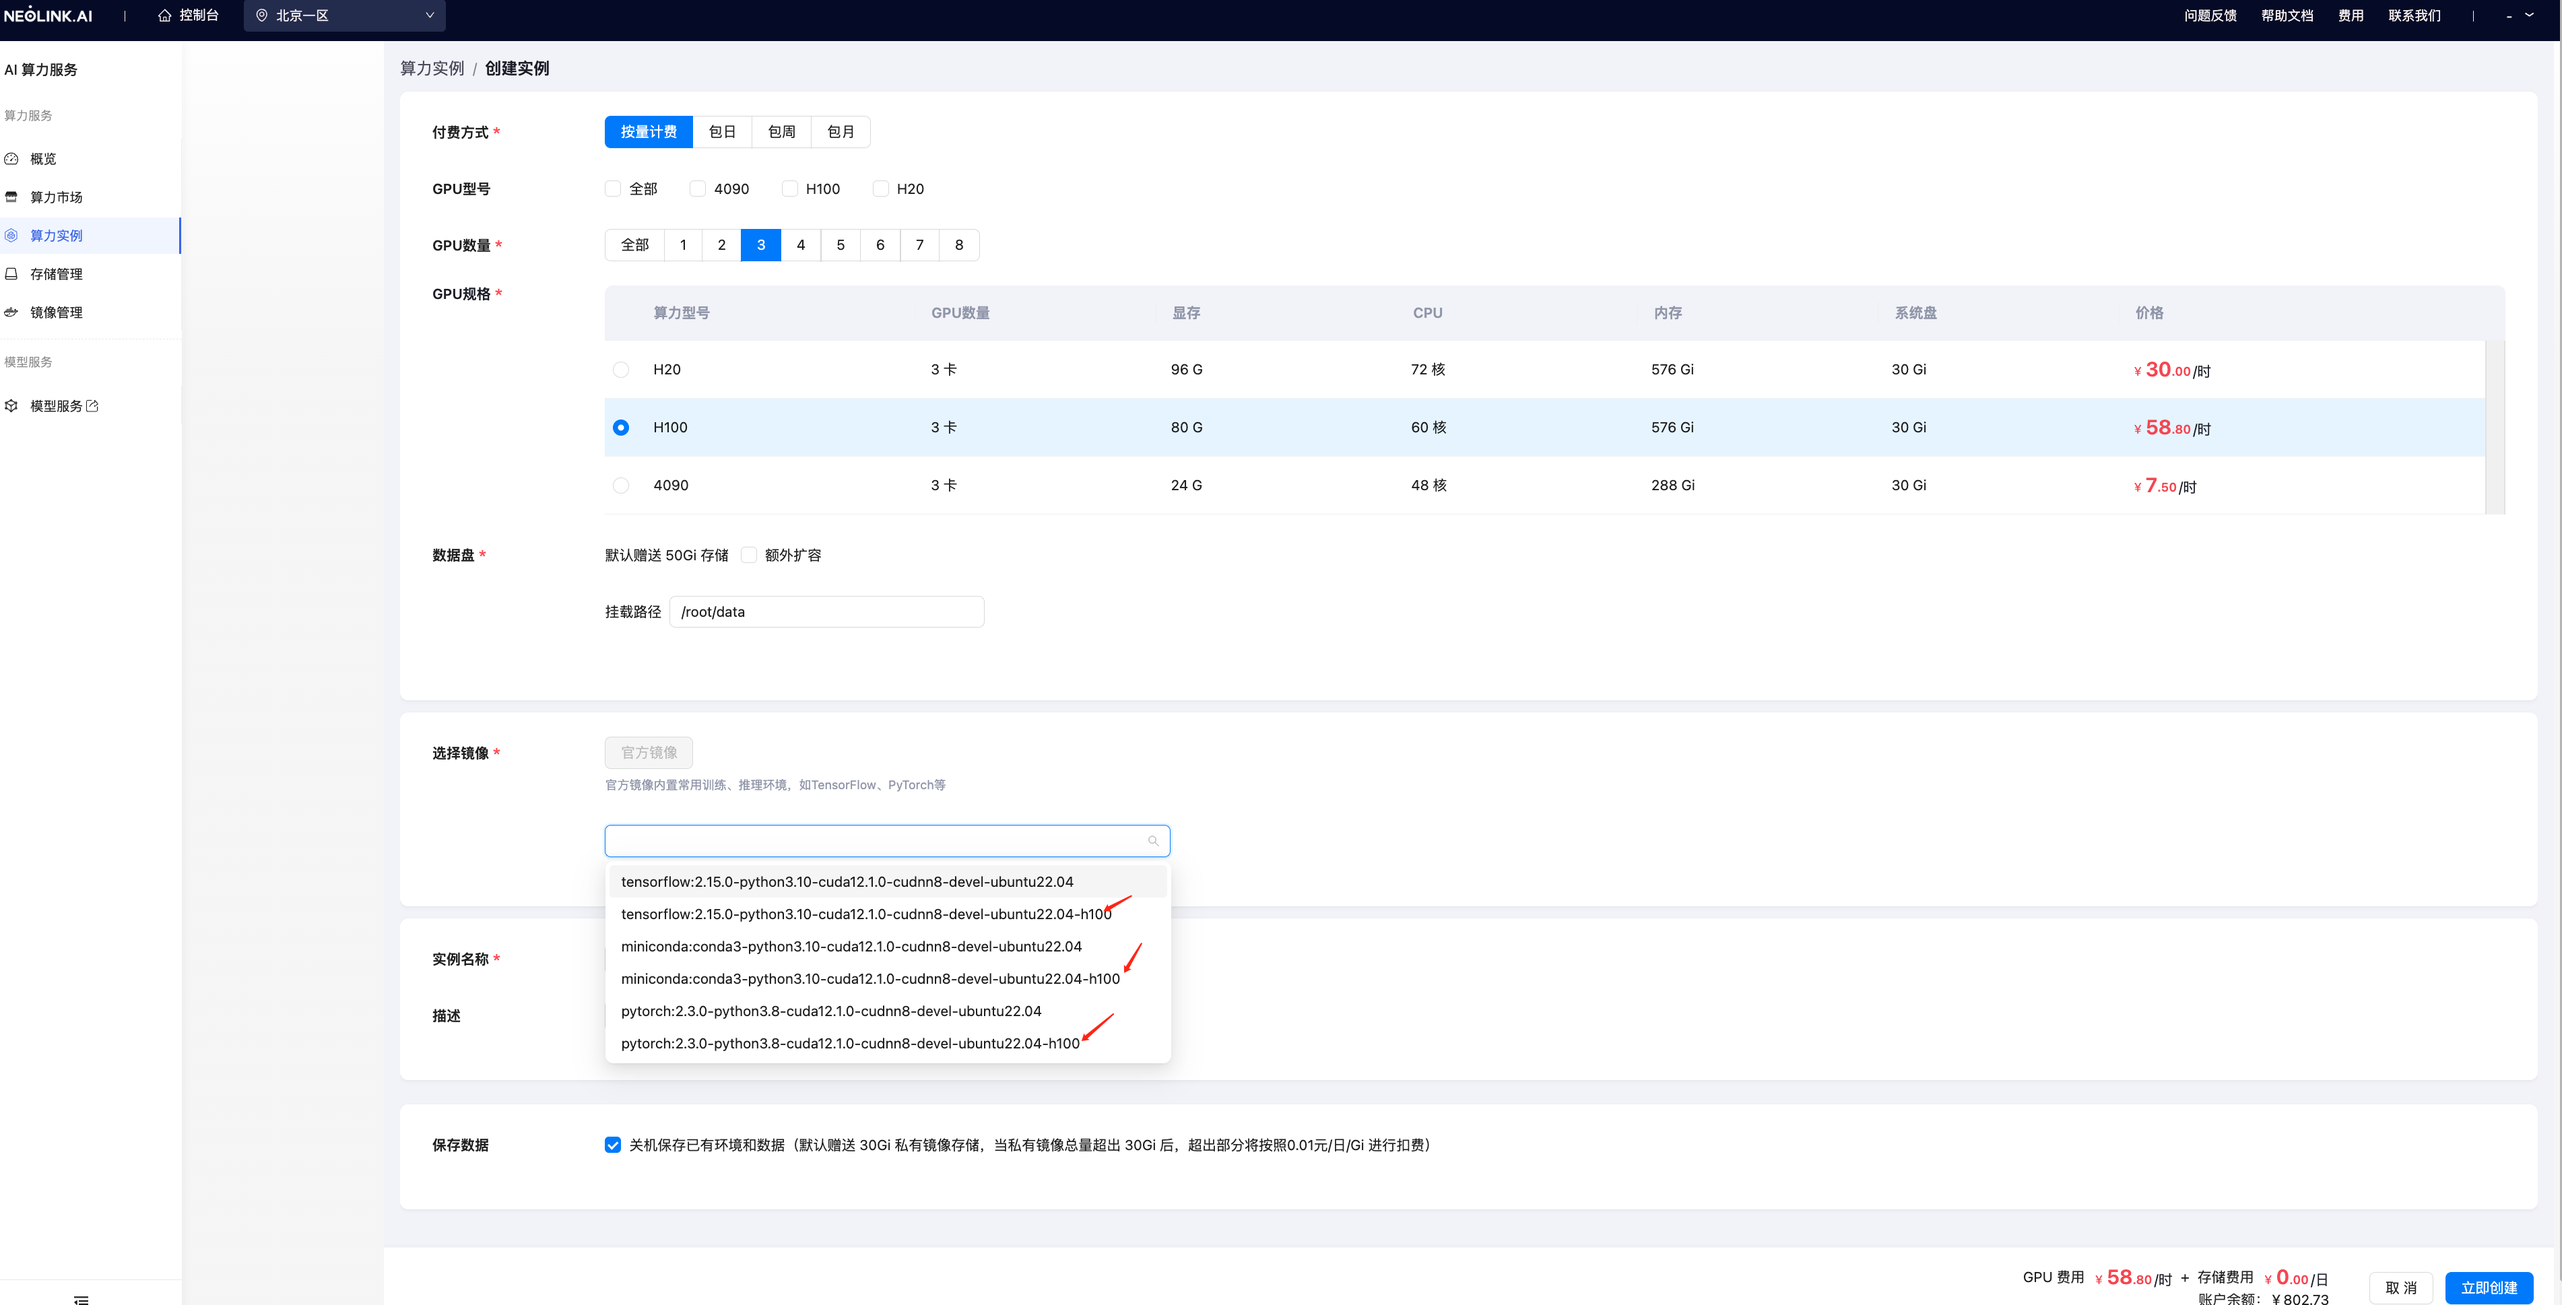
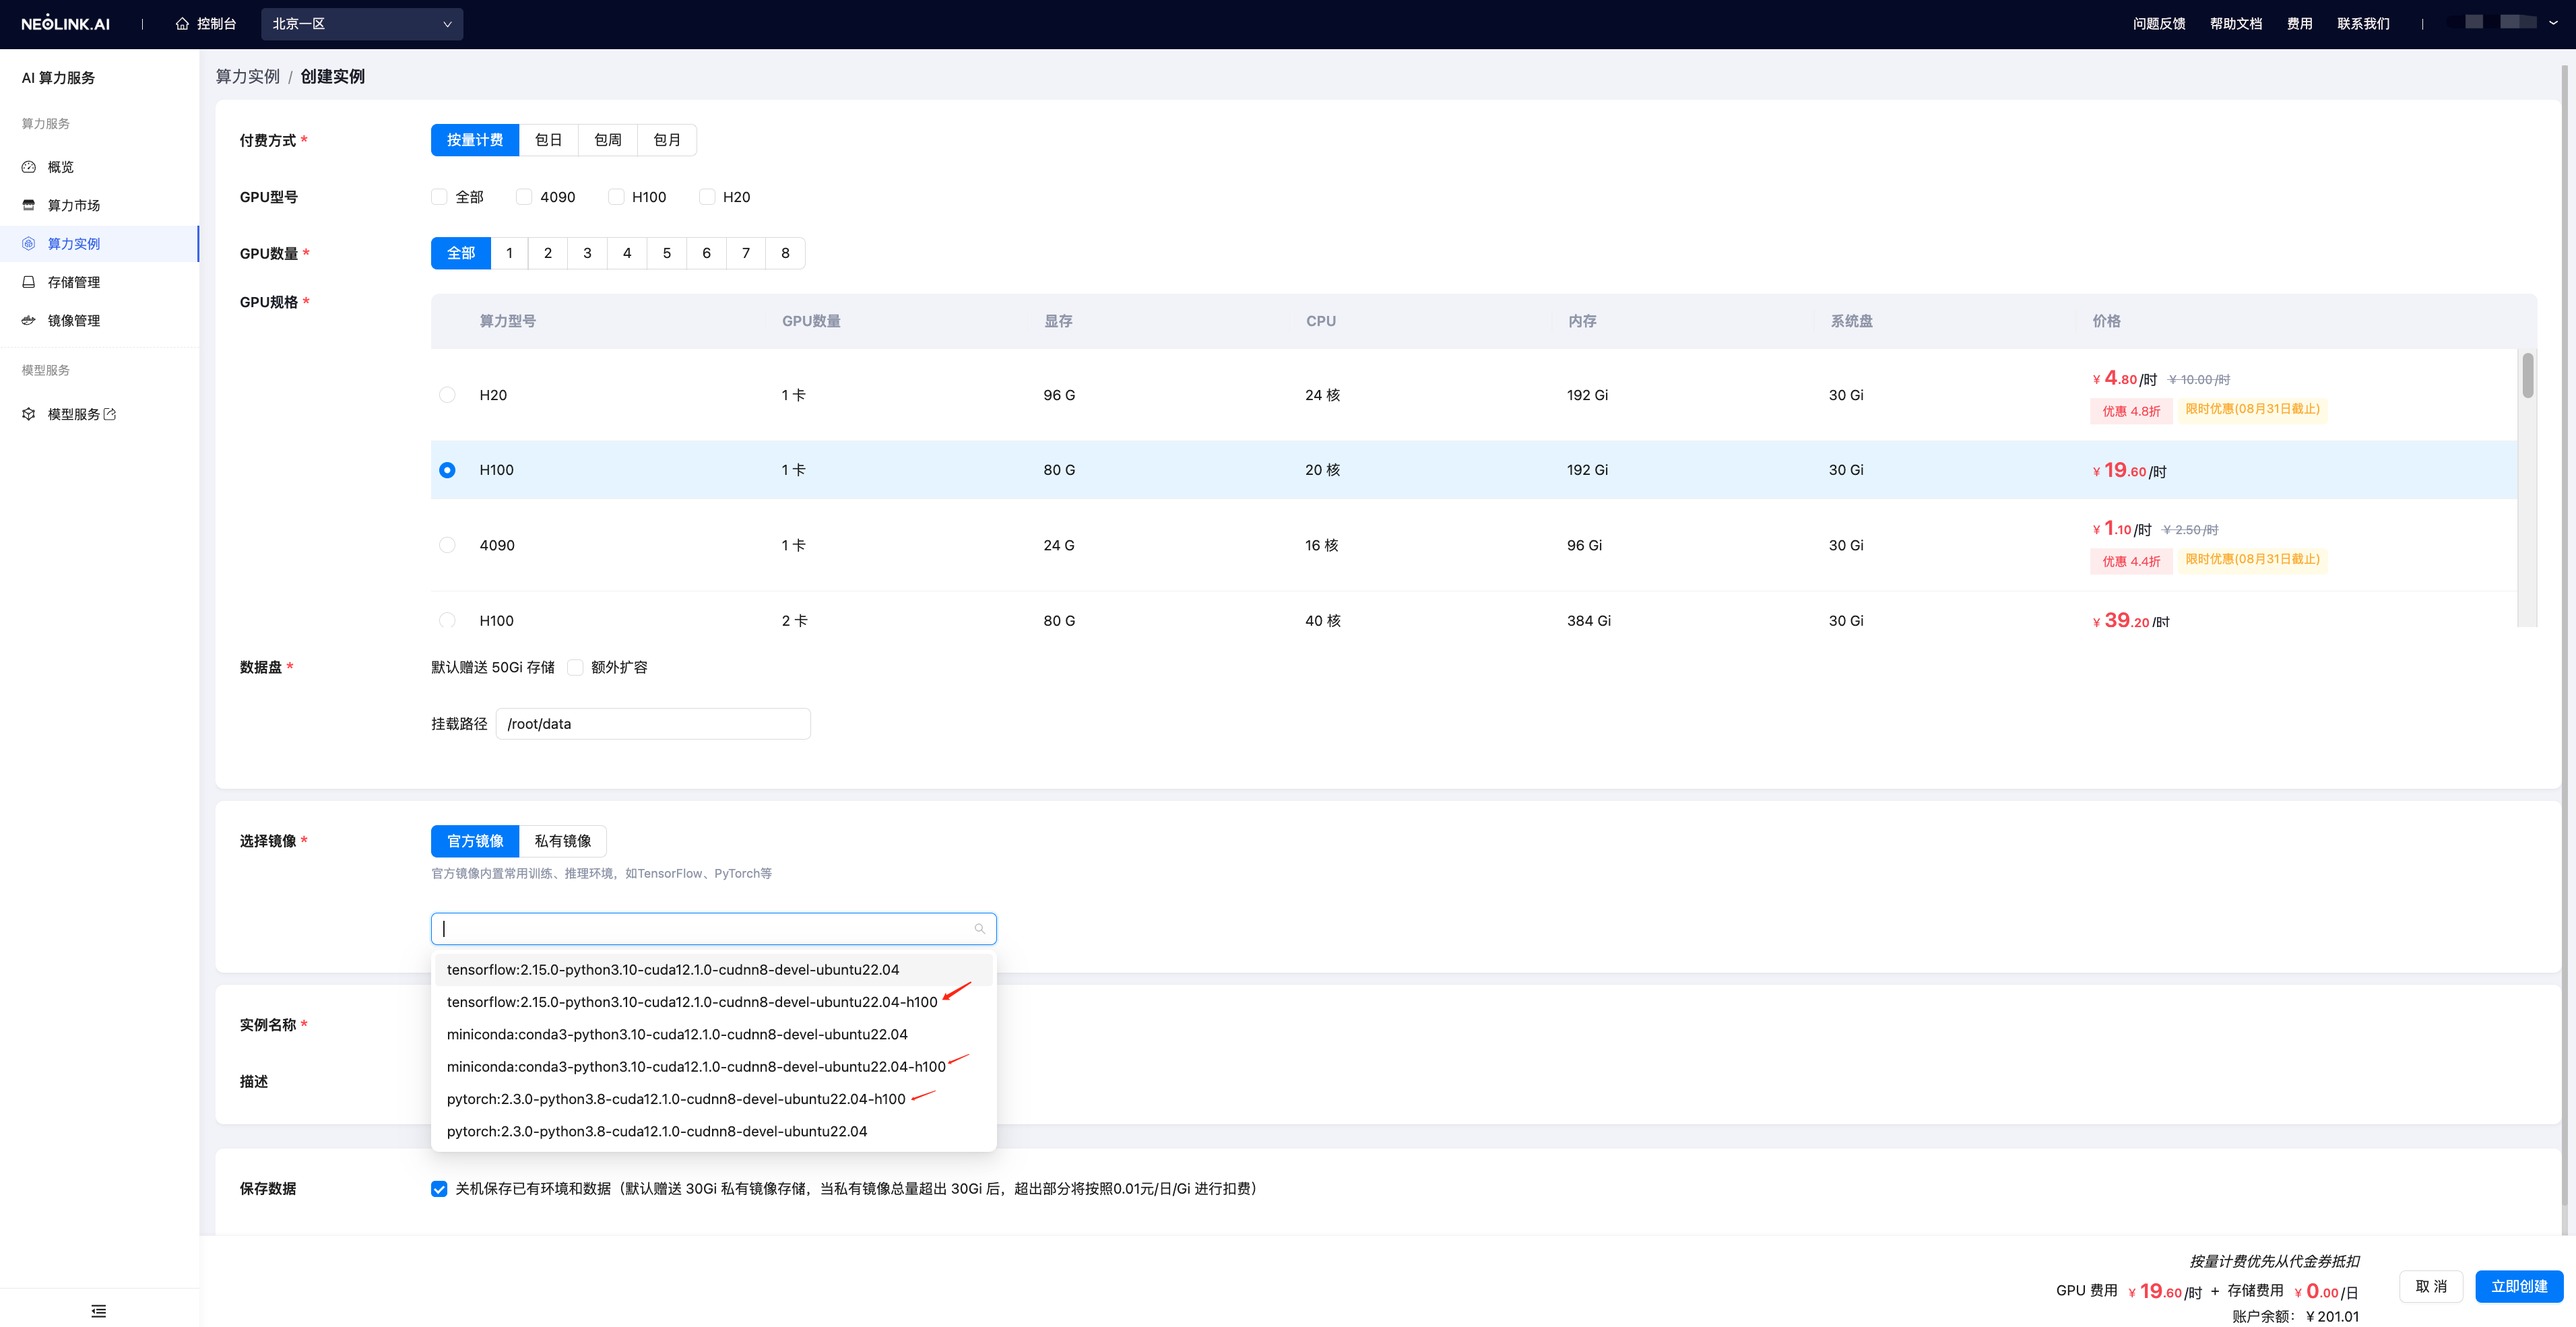
private image

diff --git a/i18n/zh-Hans/docusaurus-plugin-content-docs/current/ConfigureEnvironment/image.md b/i18n/zh-Hans/docusaurus-plugin-content-docs/current/ConfigureEnvironment/image.md
@@ -4,8 +4,36 @@ title: 镜像
 sidebar_label: 镜像
 ---
 
-在侧边栏中选择**镜像管理**,可以看到一系列的官方镜像，选择适合的官方镜像后，点击**部署**。
-<img src={require('../../../../../static/img/imgmanagement/imagemanagement-1.png').default} alt="上传数据" style={{width: '1000px', height: 'auto'}} />
+## 官方镜像
+
+Neolink.AI 提供了多种官方镜像，在侧边栏中选择**镜像管理**，可以看到一系列的官方镜像，选择适合的官方镜像后，点击**部署**。
+
+<img src={require('../../../../../static/img/imgmanagement/imagemanagement-1.png').default} alt="上传数据" style={{width: '700px', height: 'auto'}} />
 
 跳转到已选择官方镜像的创建实例界面。
-<img src={require('../../../../../static/img/imgmanagement/imagemanagement-2.png').default} alt="上传数据" style={{width: '1000px', height: 'auto'}} />
+
+<img src={require('../../../../../static/img/imgmanagement/imagemanagement-2.png').default} alt="上传数据" style={{width: '700px', height: 'auto'}} />
+
+## 私有镜像
+
+如果您已经设置好了一个实例的环境，并且希望在更换服务器或创建新实例时能够重新使用这个环境，或者想要为了将来的需要而持续维护这个环境，那么使用私有镜像是一个很好的选择。平台默认赠送 30Gi 私有镜像存储，当私有镜像总量超出 30Gi 后，超出部分将按照0.01元/日/Gi 进行扣费。
+
+### 保存镜像
+
+在算力实例列表详情右侧选择保存镜像，可见实例环境为私有镜像，将完整保存系统盘的所有文件，数据盘等不会被保存在其中。
+
+__NOTE__：只有在运行中的实例才可以保存镜像。
+
+<img src={require('../../../../../static/img/imgmanagement/imagemanagement-3.png').default} alt="保存镜像" style={{width: '800px', height: 'auto'}} />
+
+在保存镜像的弹窗中您可以自定义镜像的名称和版本。镜像保存后可前往**镜像管理 > 私有镜像**处查看镜像信息。
+
+<img src={require('../../../../../static/img/imgmanagement/imagemanagement-4.png').default} alt="保存镜像" style={{width: '800px', height: 'auto'}} />
+
+### 镜像管理
+
+在 **镜像管理 > 私有镜像**页面，可以看到我们保存的私有镜像，在这里我们可以点击**部署**按钮跳转到实例创建页面为实例选择私有镜像进行部署，也可以删除私有镜像。
+
+__NOTE:__ 删除镜像会导致依赖此镜像的实例无法正常运行，请务必谨慎操作。
+
+<img src={require('../../../../../static/img/imgmanagement/imagemanagement-5.png').default} alt="镜像管理" style={{width: '800px', height: 'auto'}} />

diff --git a/i18n/zh-Hans/docusaurus-plugin-content-docs/current/ContainerInstance/create instance.md b/i18n/zh-Hans/docusaurus-plugin-content-docs/current/ContainerInstance/create instance.md
@@ -12,7 +12,7 @@ sidebar_label: 创建算力实例
 
     <img src={require('../../../../../static/img/getstarted/getstarted-1.png').default} alt="创建实例" style={{width: '400px', height: 'auto'}} />
 
-2. 在**创建实例**页面：选择**付费方式**（按量计费或者包日、包周、包月）、**GPU型号**（4090、H20、H100）、**GPU数量**、**GPU规格**，选择**镜像**（内置了不同的深度学习框架），最后创建即可。如果你需要更大的硬盘用于存放数据，那么请设置需要扩容的大小。
+2. 在**创建实例**页面：选择**付费方式**（按量计费或者包日、包周、包月）、**GPU型号**（4090、H20、H100）、**GPU数量**、**GPU规格**，选择**镜像**（内置了不同的深度学习框架），最后创建即可。对于私有镜像的制作可查看[镜像](../ConfigureEnvironment/image.md)章节。如果你需要更大的硬盘用于存放数据，那么请设置需要扩容的大小。
 
     __NOTE__:考虑到 GPU 型号为 H100 的实例无法联网，我们为这类实例配置了定制化的镜像（镜像名称后缀为 **-h100**），以确保使用 pip 和 apt 进行软件包的安装时能够指向本地源，目前本地源包含的软件包列表与清华源一致。这使得实例在无网络环境下也能顺利完成软件和所需依赖的安装。
 
